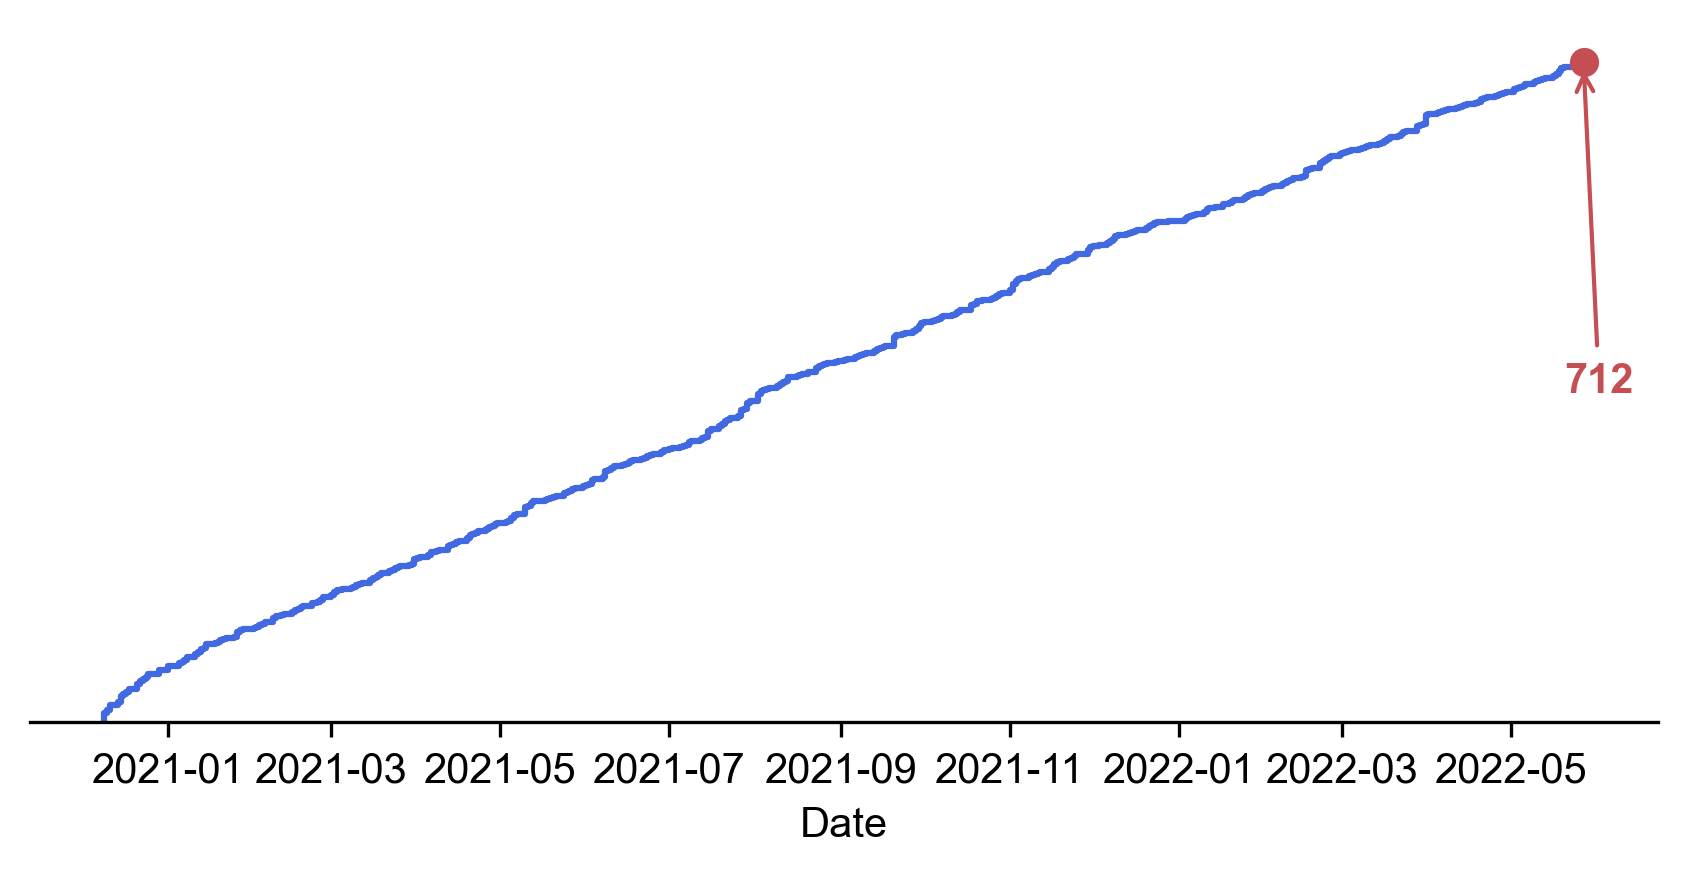
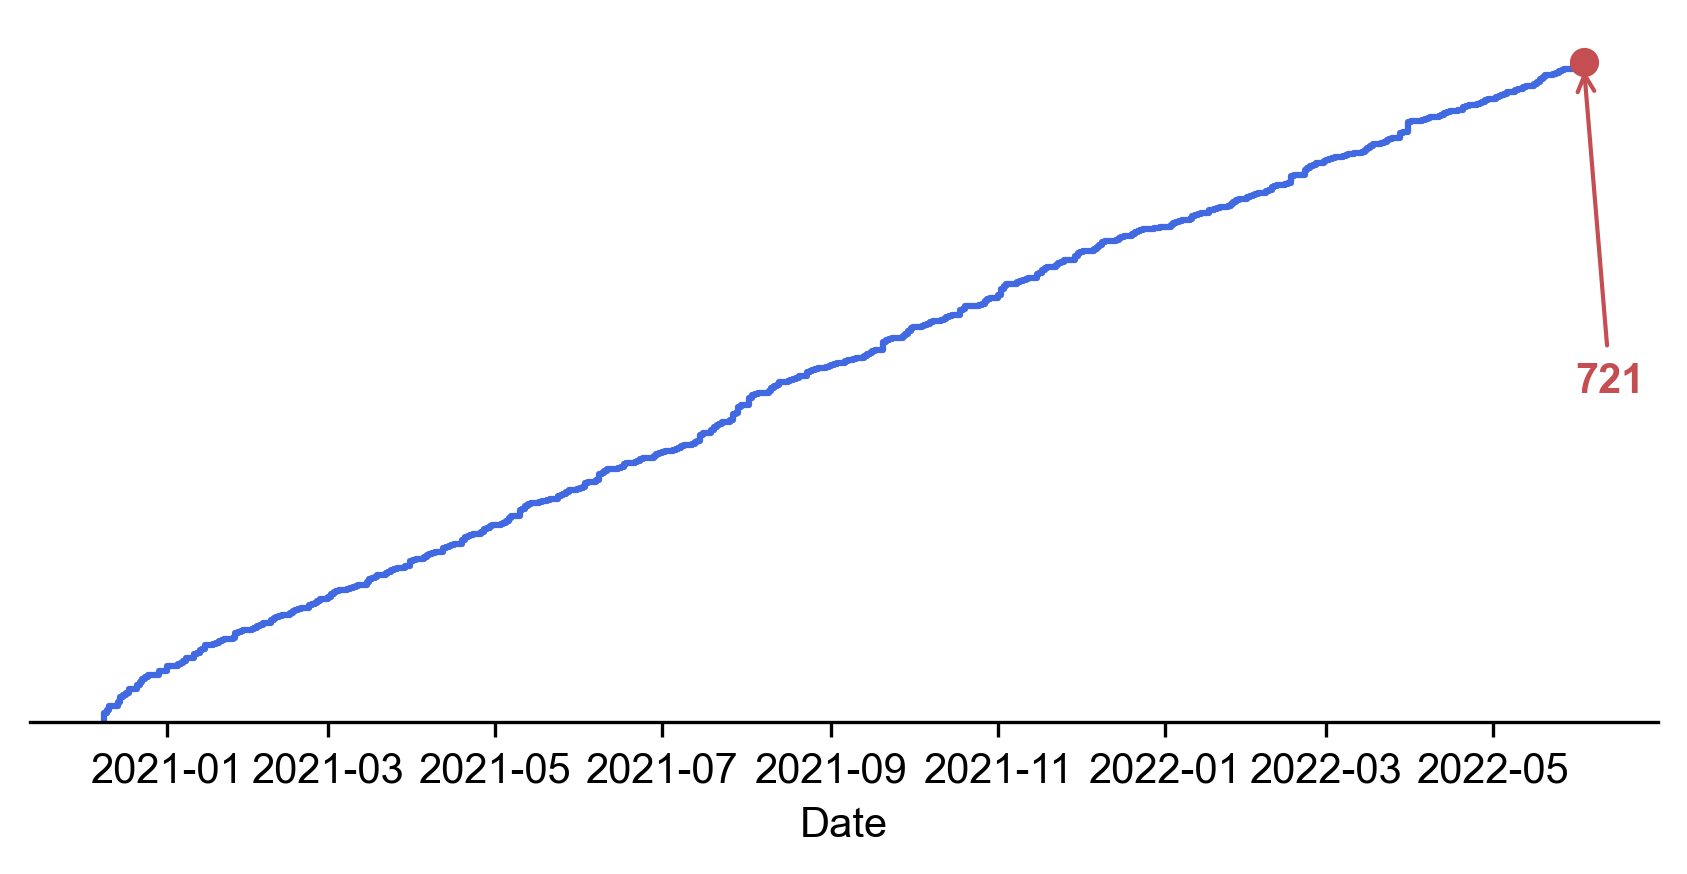
2022-06-04

diff --git a/2022/05/AstroPH-2022-05.md b/2022/05/AstroPH-2022-05.md
@@ -267,3 +267,55 @@
 
 ## 2022-05-30
 
+1. [Fundamental physics with ESPRESSO: Constraints on Bekenstein and dark energy models from astrophysical and local probes](https://arxiv.org/abs/2205.13848)
+
+   > Cosmology
+
+   在$\Lambda\rm CDM$模型下，使用`ESPRESSO`的测量，对精细结构常数$\alpha$进行约束。工作我看不明白，主要是看这个`意式浓缩`是什么。`ESPRESSO`是`Very Large Telescope`上的高分辨率光谱仪，为超高径向速度精度和高光谱保真度设计，在$378.2-788.7\rm nm$范围内以`140000/190000`的光谱分辨率进行观测，以进行系外行星研究和基础天体物理实验。
+
+## 2022-05-31
+
+1. [First discoveries and localisations of Fast Radio Bursts with MeerTRAP: a real-time, commensal MeerKAT survey](https://arxiv.org/abs/2205.14600)
+
+   > Fast Radio Burst, Discovery, MeerKAT, Galaxy
+
+   用`MeerKAT`发现了三个新的FRB，其中`FRB 20201123A`在200ms时间内有两次爆发，并且被定位在一个星系中。
+
+   <img src="Figures/image-20220531164652223.png" alt="image-20220531164652223" style="zoom:70%;" />
+
+2. [Discovery of a radio-emitting neutron star with an ultra-long spin period of 76 s](https://www.nature.com/articles/s41550-022-01688-x)
+
+   > Pulsar, Discovery, MeerKAT
+
+   用`MeerKAT`发现了一个超长周期$75.88\,\rm s$的脉冲星`PSR J0901-4046`，特征年龄是5.3Myr，一般中子星的自转周期是几毫秒到几十秒，并且随着年龄增大，速度减慢，射电辐射会停止。文章在NA上见刊，没贴到arXiv上。这个脉冲的脉冲形态跟FRB有些类似，并且还存在准周期。
+
+   <img src="Figures/image-20220531165109416.png" alt="image-20220531165109416" style="zoom:50%;" />
+
+3. [Water observed in the atmosphere of τ Bootis Ab with CARMENES/CAHA](https://arxiv.org/abs/2205.14975)
+
+   > Exoplanet, Spectrum, Water
+
+   使用`CARMENES`高分辨光谱仪在近红外，对非凌日热木星$\tau\rm Bootis\ Ab$的热辐射观测中发现了水。水在红外有明显的吸收，大概是在$1.4-1.8\,\rm \mu m$。
+
+4. [How have astronomers cited other fields in the last decade?](https://arxiv.org/abs/2205.14153)
+
+   > Astrostatistics
+
+   统计`2010-2020`年arXiv的天文文章的引用。12600篇天文文章引用了超过14531篇非天文的文章，其中广义相对论是引用最多的，这一趋势与引力波发现高度相关。计算机科学从2015年第一次引用至今，引用量翻了15倍。
+   
+5. [The Great Dimming of Betelgeuse seen by the Himawari-8 meteorological satellite](https://www.nature.com/articles/s41550-022-01680-5)
+
+   > Stellar, Spectrum, Betelgeuse
+
+   参宿四在2019年年底到2020年年初突然变暗，可能因为恒星`表面有效温度下降100K`或者恒星`抛射尘埃遮挡`，要区分这两种情况需要光学到中红外的光谱测光。
+
+   `Himawari-8`从2015年开始每10分钟给地球拍一张照，并且覆盖了从$450\,\rm nm-13.5\,\rm \mu m$的16个波段。尽管是用来观测地球的，但难免拍到一些别的恒星，其中就包括了参宿四。
+
+   从每个时间点的16个波段的辐射组成的SED中可以提取恒星半径、有效温度、尘埃消光、尘埃光深等参数，这样就可以得到高时间分辨率的这四个参数的时间变化。可以看到，参宿四在变暗期间，表面温度下降并且尘埃消光上升，也就是说两个原因对参宿四变暗的贡献几乎是相同的。
+
+   <img src="Figures/41550_2022_1680_Fig2_HTML.png" alt="img" style="zoom:50%;" />
+
+   这种在中红外波段、长时间、高时间分辨率、观测一颗恒星的数据，在目前的天文观测中几乎没有，而气象卫星竟然可以补上这块短板。这篇文章也是贴在了NA，没有挂到arXiv上。
+
+
+

diff --git a/2022/06/AstroPH-2022-06.md b/2022/06/AstroPH-2022-06.md
@@ -1,0 +1,28 @@
+## 2022-06-01
+
+1. [Precession and Jitter in FRB 180916B](https://arxiv.org/abs/2205.15385)
+
+   > Fast Radio Burst, Theory
+
+   如果FRB20180916B的周期是由吸积盘进动造成的，那么目前观测到的相位窗口宽度表明，吸积盘抖动约为倾角的0.14倍，与`jet source - SS 433`类似。
+
+## 2022-06-02
+
+1. [The nuclear transient AT 2017gge: a tidal disruption event in a dusty and gas-rich environment and the awakening of a dormant SMBH](https://arxiv.org/abs/2206.00049)
+
+   > Stellar, Transient, TDE, SMBH
+
+   对`AT 2017gge`长时间（1698d）多波段（X射线、紫外、光学、红外）的观测，其光变曲线、黑体温度、半径以及宽$\rm H/He\ I\ \lambda5876$的发射线，都与潮汐瓦解性质一致。 软X射线耀斑较光学峰值延迟了200天，之后观测到了由尘埃对光学TDE光的在辐射产生的红外回波。说明TDE发生在富含气体和尘埃的环境中，不同波段的辐射有不同的来源和位置。
+
+   <img src="Figures/image-20220602184819990.png" alt="image-20220602184819990" style="zoom:50%;" />
+
+## 2022-06-03
+
+1. [Molecular precursors of the RNA-world in space: new nitriles in the G+0.693-0.027 molecular cloud](https://arxiv.org/abs/2206.01053)
+
+   > Astrochemistry, ISM, RNA, Prebiotic Chemistry
+
+   RNA的分子前体是氮化物，可能是来自地球外部，这就强调了在星际介质中建立氮化物库的重要性。对`G+0.693-0.027`的`腈类化合物`探测发现了`氰酸`$40-160\,\rm GHz$、`氰甲醛`、`乙腈`等，说明在太空中可能可以合成RNA前体分子。
+
+## 2022-06-06
+
